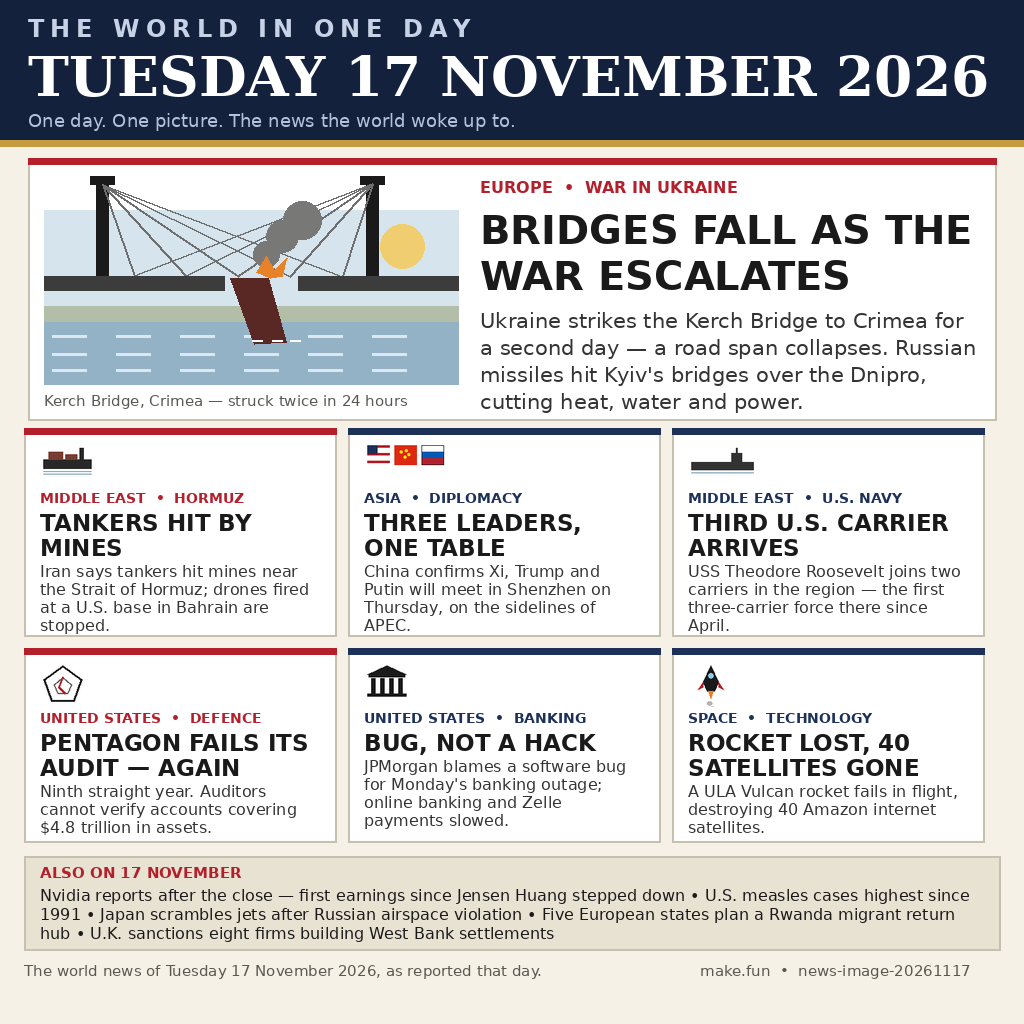
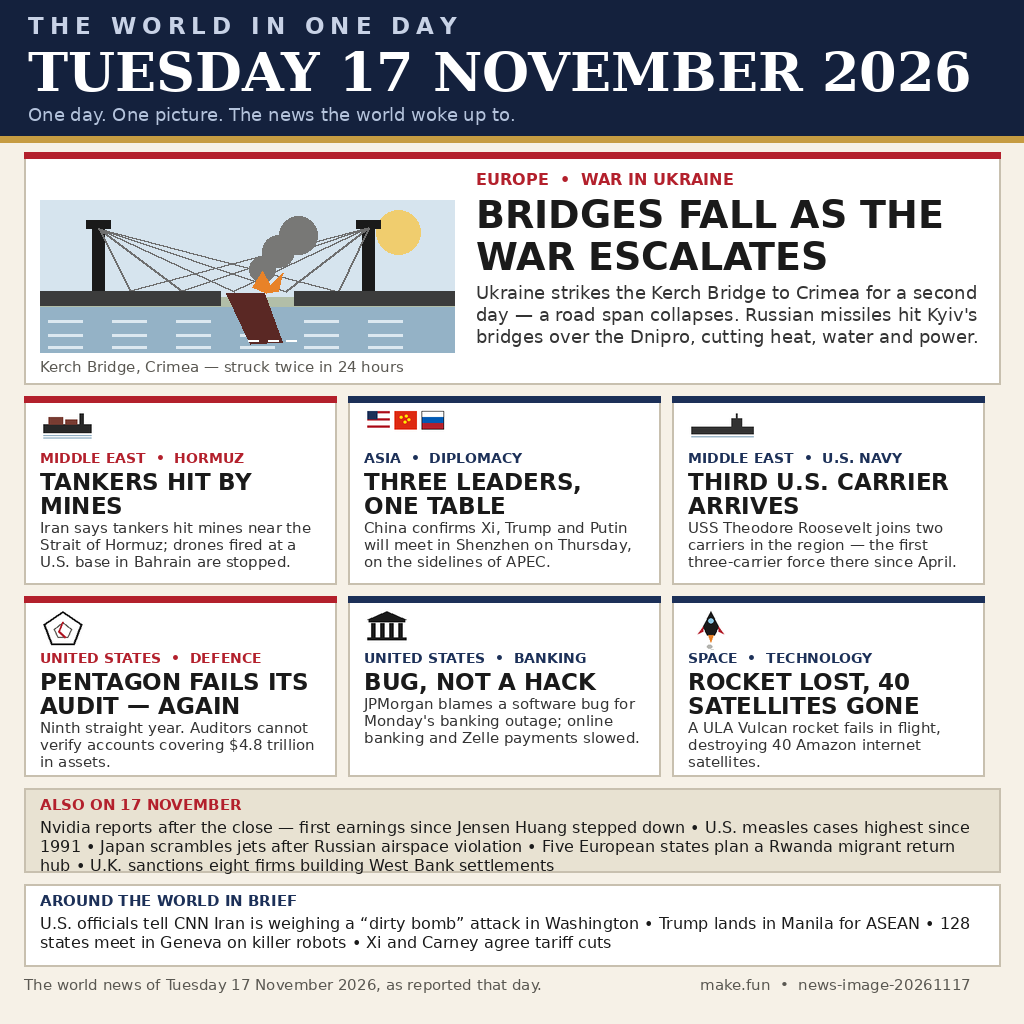
Round 2: denser front page, 16 stories
Add an 'Around the world in brief' strip (dirty-bomb intel, Trump in
Manila, Geneva killer-robots talks, Xi-Carney tariff cuts) and tighten
the layout so every line fits its panel. Bridge scene redrawn with
box-relative geometry. Round 1 scored dev rate 0.980686, rank 39/916;
this round aims higher on breadth.

diff --git a/make_image.py b/make_image.py
@@ -69,41 +69,49 @@ def letterspaced(draw, xy, text, fnt, color, spacing=4):
 
 
 def draw_bridge_scene(draw, box):
-    """A bridge over water with its middle span broken and smoking."""
+    """A bridge over water with its middle span broken and smoking.
+    All geometry is relative to the box, so it fits any panel height."""
     x0, y0, x1, y1 = box
+    bh = y1 - y0
     draw.rectangle(box, fill=SKY)
     # sun
-    draw.ellipse([x1 - 78, y0 + 14, x1 - 34, y0 + 58], fill=(240, 205, 110))
-    # distant shore
-    draw.rectangle([x0, y1 - 78, x1, y1 - 62], fill=(178, 190, 168))
-    # water
-    draw.rectangle([x0, y1 - 62, x1, y1], fill=SEA)
-    for wy in (y1 - 48, y1 - 30, y1 - 14):
-        for wx in range(x0 + 8, x1 - 40, 64):
-            draw.line([(wx, wy), (wx + 34, wy)], fill=(220, 232, 240), width=3)
-    deck_y = y1 - 108
+    draw.ellipse([x1 - 78, y0 + 10, x1 - 34, y0 + 54], fill=(240, 205, 110))
+    deck_y = y0 + int(bh * 0.60)
+    tower_h = int(bh * 0.42)
+    # distant shore, then water
+    draw.rectangle([x0, deck_y + 6, x1, deck_y + 16], fill=(178, 190, 168))
+    draw.rectangle([x0, deck_y + 16, x1, y1], fill=SEA)
+    for wy in (deck_y + 30, deck_y + 44, deck_y + 56):
+        if wy < y1 - 4:
+            for wx in range(x0 + 8, x1 - 40, 64):
+                draw.line([(wx, wy), (wx + 34, wy)], fill=(220, 232, 240), width=3)
     # towers
     for tx in (x0 + 52, x1 - 92):
-        draw.rectangle([tx, deck_y - 92, tx + 12, deck_y], fill=INK)
-        draw.rectangle([tx - 6, deck_y - 100, tx + 18, deck_y - 92], fill=INK)
+        draw.rectangle([tx, deck_y - tower_h, tx + 12, deck_y], fill=INK)
+        draw.rectangle([tx - 6, deck_y - tower_h - 8, tx + 18,
+                        deck_y - tower_h], fill=INK)
     # cables (a few, from each tower to the deck)
     for cx in range(x0 + 90, x1 - 90, 52):
-        draw.line([(x0 + 58, deck_y - 92), (cx, deck_y)], fill=(110, 110, 110), width=2)
-        draw.line([(x1 - 86, deck_y - 92), (cx, deck_y)], fill=(110, 110, 110), width=2)
+        draw.line([(x0 + 58, deck_y - tower_h), (cx, deck_y)],
+                  fill=(110, 110, 110), width=2)
+        draw.line([(x1 - 86, deck_y - tower_h), (cx, deck_y)],
+                  fill=(110, 110, 110), width=2)
     # deck: left part intact, middle span broken and tilted into the water
     draw.rectangle([x0, deck_y, x0 + 180, deck_y + 14], fill=(60, 60, 60))
     draw.rectangle([x1 - 160, deck_y, x1, deck_y + 14], fill=(60, 60, 60))
     # broken span, a narrow slab tilted down into the water
     draw.polygon([(x0 + 186, deck_y + 2), (x0 + 224, deck_y + 2),
-                  (x0 + 242, y1 - 42), (x0 + 210, y1 - 40)], fill=(90, 40, 36))
+                  (x0 + 242, y1 - 10), (x0 + 210, y1 - 8)], fill=(90, 40, 36))
     # splash where the slab meets the water
     for sx in (x0 + 208, x0 + 228, x0 + 246):
-        draw.line([(sx, y1 - 44), (sx + 10, y1 - 44)], fill=WHITE, width=2)
+        draw.line([(sx, y1 - 12), (sx + 10, y1 - 12)], fill=WHITE, width=2)
     # smoke from the break
     for i, (sx, sy, sr) in enumerate([(x0 + 222, deck_y - 22, 13),
                                       (x0 + 238, deck_y - 40, 16),
                                       (x0 + 258, deck_y - 56, 19)]):
-        draw.ellipse([sx - sr, sy - sr, sx + sr, sy + sr], fill=(120, 120, 118))
+        if sy - sr > y0:
+            draw.ellipse([sx - sr, sy - sr, sx + sr, sy + sr],
+                         fill=(120, 120, 118))
     # small explosion flash at the break
     draw.polygon([(x0 + 212, deck_y - 4), (x0 + 222, deck_y - 20),
                   (x0 + 230, deck_y - 6), (x0 + 242, deck_y - 18),
@@ -188,20 +196,20 @@ def panel(draw, box, tag, headline, body, icon=None, accent=RED):
     draw.rectangle(box, fill=WHITE, outline=LINE, width=2)
     draw.rectangle([x0, y0, x1, y0 + 6], fill=accent)
     cx = x0 + 16
-    cy = y0 + 14
+    cy = y0 + 12
     if icon is not None:
         # Draw the icon on a small canvas, then shrink it to a uniform strip.
         tmp = Image.new("RGB", (130, 70), WHITE)
         d2 = ImageDraw.Draw(tmp)
         icon(d2, 5, 5)
-        tmp = tmp.resize((84, 45), Image.LANCZOS)
+        tmp = tmp.resize((84, 42), Image.LANCZOS)
         img.paste(tmp, (cx, cy))
-        cy += 48
+        cy += 42
     draw.text((cx, cy), tag, font=F_SANS_B(14), fill=accent)
-    cy += 19
-    cy = para(draw, (cx, cy), headline, F_SANS_B(23), INK, x1 - x0 - 32, 25)
-    para(draw, (cx, cy + 3), body, F_SANS(16), (52, 52, 52),
-         x1 - x0 - 32, 18)
+    cy += 18
+    cy = para(draw, (cx, cy), headline, F_SANS_B(23), INK, x1 - x0 - 32, 24)
+    para(draw, (cx, cy + 3), body, F_SANS(15), (52, 52, 52),
+         x1 - x0 - 32, 17)
 
 
 def main():
@@ -210,41 +218,41 @@ def main():
     draw = ImageDraw.Draw(img)
 
     # ---- Masthead ----
-    draw.rectangle([0, 0, W, 140], fill=NAVY)
-    letterspaced(draw, (28, 14), "THE WORLD IN ONE DAY", F_SANS_B(24),
+    draw.rectangle([0, 0, W, 136], fill=NAVY)
+    letterspaced(draw, (28, 12), "THE WORLD IN ONE DAY", F_SANS_B(23),
                  (200, 210, 230), spacing=6)
-    date_size = 56
+    date_size = 54
     while (draw.textlength("TUESDAY 17 NOVEMBER 2026",
                            font=F_SERIF_B(date_size)) > W - 56
            and date_size > 30):
         date_size -= 1
-    draw.text((28, 44), "TUESDAY 17 NOVEMBER 2026", font=F_SERIF_B(date_size),
+    draw.text((28, 40), "TUESDAY 17 NOVEMBER 2026", font=F_SERIF_B(date_size),
               fill=WHITE)
-    draw.text((28, 110), "One day. One picture. The news the world woke up to.",
+    draw.text((28, 104), "One day. One picture. The news the world woke up to.",
               font=F_SANS_OB(18), fill=(180, 195, 220))
-    draw.rectangle([0, 140, W, 146], fill=GOLD)
+    draw.rectangle([0, 136, W, 142], fill=GOLD)
 
     # ---- Lead story: bridges ----
-    lx0, ly0, lx1, ly1 = 28, 158, 996, 420
+    lx0, ly0, lx1, ly1 = 24, 152, 1000, 384
     draw.rectangle([lx0, ly0, lx1, ly1], fill=WHITE, outline=LINE, width=2)
     draw.rectangle([lx0, ly0, lx1, ly0 + 6], fill=RED)
-    draw_bridge_scene(draw, (lx0 + 16, ly0 + 52, lx0 + 430, ly1 - 36))
+    draw_bridge_scene(draw, (lx0 + 16, ly0 + 48, lx0 + 430, ly1 - 32))
     tx = lx0 + 452
-    draw.text((tx, ly0 + 20), "EUROPE  •  WAR IN UKRAINE", font=F_SANS_B(16),
+    draw.text((tx, ly0 + 18), "EUROPE  •  WAR IN UKRAINE", font=F_SANS_B(16),
               fill=RED)
-    y = para(draw, (tx, ly0 + 48), "BRIDGES FALL AS THE WAR ESCALATES",
-             F_SANS_B(40), INK, lx1 - tx - 18, 46)
-    para(draw, (tx, y + 10),
+    y = para(draw, (tx, ly0 + 40), "BRIDGES FALL AS THE WAR ESCALATES",
+             F_SANS_B(38), INK, lx1 - tx - 18, 42)
+    para(draw, (tx, y + 6),
          "Ukraine strikes the Kerch Bridge to Crimea for a second day — "
          "a road span collapses. Russian missiles hit Kyiv's bridges over "
          "the Dnipro, cutting heat, water and power.",
-         F_SANS(21), (52, 52, 52), lx1 - tx - 18, 27)
-    draw.text((lx0 + 16, ly1 - 28), "Kerch Bridge, Crimea — struck twice in 24 hours",
+         F_SANS(18), (52, 52, 52), lx1 - tx - 18, 22)
+    draw.text((lx0 + 16, ly1 - 26), "Kerch Bridge, Crimea — struck twice in 24 hours",
               font=F_SANS_OB(15), fill=GREY)
 
     # ---- Row 2 ----
     gap, pw = 12, 312
-    y0, y1 = 428, 636
+    y0, y1 = 396, 584
     boxes = [(24 + i * (pw + gap), y0, 24 + (i + 1) * pw + i * gap, y1)
              for i in range(3)]
     panel(draw, boxes[0], "MIDDLE EAST  •  HORMUZ",
@@ -264,7 +272,7 @@ def main():
           icon=icon_carrier, accent=NAVY2)
 
     # ---- Row 3 ----
-    y0, y1 = 648, 842
+    y0, y1 = 596, 776
     boxes = [(24 + i * (pw + gap), y0, 24 + (i + 1) * pw + i * gap, y1)
              for i in range(3)]
     panel(draw, boxes[0], "UNITED STATES  •  DEFENCE",
@@ -284,7 +292,7 @@ def main():
           icon=icon_rocket, accent=NAVY2)
 
     # ---- Also today strip ----
-    sx0, sy0, sx1, sy1 = 24, 856, 1000, 950
+    sx0, sy0, sx1, sy1 = 24, 788, 1000, 872
     draw.rectangle([sx0, sy0, sx1, sy1], fill=(232, 226, 210),
                    outline=LINE, width=2)
     draw.text((sx0 + 16, sy0 + 8), "ALSO ON 17 NOVEMBER",
@@ -297,10 +305,23 @@ def main():
          "sanctions eight firms building West Bank settlements",
          F_SANS(16), INK, sx1 - sx0 - 32, 19)
 
+    # ---- Around the world in brief ----
+    sx0, sy0, sx1, sy1 = 24, 884, 1000, 966
+    draw.rectangle([sx0, sy0, sx1, sy1], fill=WHITE,
+                   outline=LINE, width=2)
+    draw.text((sx0 + 16, sy0 + 8), "AROUND THE WORLD IN BRIEF",
+              font=F_SANS_B(15), fill=NAVY2)
+    para(draw, (sx0 + 16, sy0 + 30),
+         "U.S. officials tell CNN Iran is weighing a “dirty bomb” attack "
+         "in Washington  •  Trump lands in Manila for ASEAN  •  "
+         "128 states meet in Geneva on killer robots  •  "
+         "Xi and Carney agree tariff cuts",
+         F_SANS(16), INK, sx1 - sx0 - 32, 19)
+
     # ---- Footer ----
-    draw.text((24, 962), "The world news of Tuesday 17 November 2026, as reported that day.",
+    draw.text((24, 976), "The world news of Tuesday 17 November 2026, as reported that day.",
               font=F_SANS_OB(15), fill=GREY)
-    draw.text((700, 962), "make.fun  •  news-image-20261117",
+    draw.text((700, 976), "make.fun  •  news-image-20261117",
               font=F_SANS(15), fill=GREY)
 
     out = os.path.join(HERE, "entry.png")
